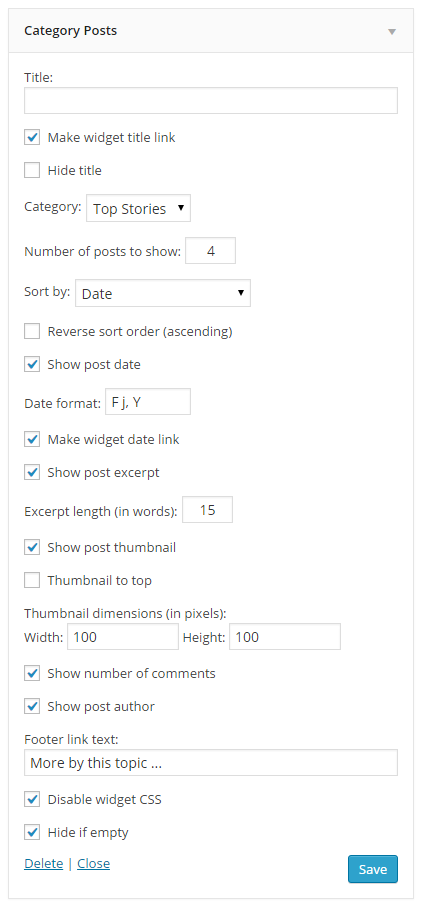
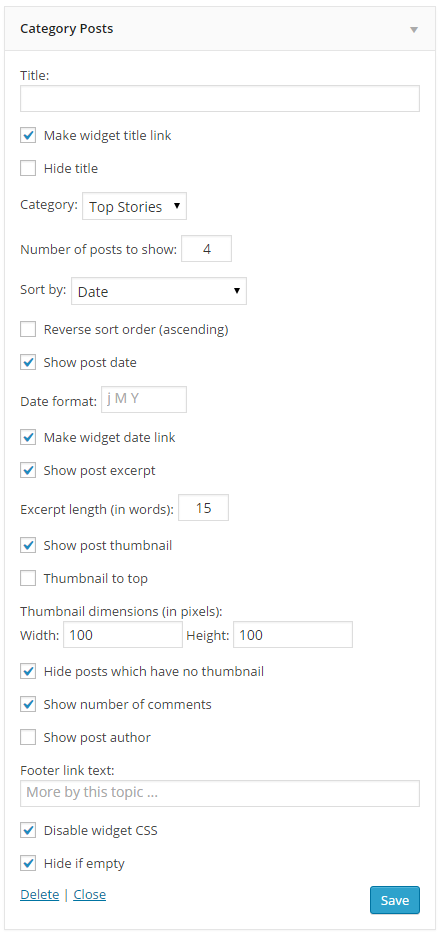
Added option to hide posts which have no thumbnail

Changed region(s): [[0.0309, 0.0, 0.6176, 0.9591], [0.8029, 0.9282, 0.9264, 0.9901], [0.9264, 0.0309, 0.9572, 0.0619]]

diff --git a/cat-posts.php b/cat-posts.php
@@ -79,12 +79,24 @@ class CategoryPosts extends WP_Widget {
 		}
 
 		// Get array of post info.
-		$cat_posts = new WP_Query(
-			"showposts=" . $instance["num"] . 
-			"&cat=" . $instance["cat"] .
-			"&orderby=" . $sort_by .
-			"&order=" . $sort_order
+		$args = array(
+			'showposts' => $instance["num"],
+			'cat' => $instance["cat"],
+			'orderby' => $sort_by,
+			'order' => $sort_order
 		);
+		
+		if( isset( $instance['hideNoThumb'] ) ) {
+			$args = array_merge( $args, array( 'meta_query' => array(
+					array(
+					 'key' => '_thumbnail_id',
+					 'compare' => 'EXISTS' )
+					)
+				)	
+			);
+		}
+		
+		$cat_posts = new WP_Query( $args );
 		
 		if ( !isset ( $instance["hide_if_empty"] ) || $cat_posts->have_posts() ) {
 			
@@ -240,6 +252,7 @@ class CategoryPosts extends WP_Widget {
 			'date_format'    => __( '' ),
 			'thumb'          => __( '' ),
 			'thumbTop'       => __( '' ),
+			'hideNoThumb'    => __( '' ),
 			'thumb_w'        => __( '' ),
 			'thumb_h'        => __( '' ),
 			'disable_css'    => __( '' ),
@@ -263,6 +276,7 @@ class CategoryPosts extends WP_Widget {
 		$date_format    = $instance['date_format'];
 		$thumb          = $instance['thumb'];
 		$thumbTop       = $instance['thumbTop'];
+		$hideNoThumb    = $instance['hideNoThumb'];
 		$thumb_w        = $instance['thumb_w'];
 		$thumb_h        = $instance['thumb_h'];
 		$disable_css    = $instance['disable_css'];
@@ -329,7 +343,7 @@ class CategoryPosts extends WP_Widget {
 			<label for="<?php echo $this->get_field_id("date_format"); ?>">
 				<?php _e( 'Date format:' ); ?>
 			</label>
-			<input class="text" id="<?php echo $this->get_field_id("date_format"); ?>" name="<?php echo $this->get_field_name("date_format"); ?>" type="text" value="<?php echo esc_attr($instance["date_format"]); ?>" size="8" />
+			<input class="text" placeholder="j M Y" id="<?php echo $this->get_field_id("date_format"); ?>" name="<?php echo $this->get_field_name("date_format"); ?>" type="text" value="<?php echo esc_attr($instance["date_format"]); ?>" size="8" />
 		</p>
 		<p>
 			<label for="<?php echo $this->get_field_id("date_link"); ?>">
@@ -374,6 +388,12 @@ class CategoryPosts extends WP_Widget {
 					</label>
 				</label>
 			</p>
+			<p>
+				<label for="<?php echo $this->get_field_id("hideNoThumb"); ?>">
+					<input type="checkbox" class="checkbox" id="<?php echo $this->get_field_id("hideNoThumb"); ?>" name="<?php echo $this->get_field_name("hideNoThumb"); ?>"<?php checked( (bool) $instance["hideNoThumb"], true ); ?> />
+					<?php _e( 'Hide posts which have no thumbnail' ); ?>
+				</label>
+			</p>			
 		<?php endif; ?>	
 		<p>
 			<label for="<?php echo $this->get_field_id("comment_num"); ?>">
@@ -390,7 +410,7 @@ class CategoryPosts extends WP_Widget {
 		<p>
 			<label for="<?php echo $this->get_field_id("footer_link"); ?>">
 				<?php _e( 'Footer link text' ); ?>:
-				<input class="widefat" id="<?php echo $this->get_field_id("footer_link"); ?>" name="<?php echo $this->get_field_name("footer_link"); ?>" type="text" value="<?php echo esc_attr($instance["footer_link"]); ?>" />
+				<input class="widefat" placeholder="More by this topic ..." id="<?php echo $this->get_field_id("footer_link"); ?>" name="<?php echo $this->get_field_name("footer_link"); ?>" type="text" value="<?php echo esc_attr($instance["footer_link"]); ?>" />
 			</label>
 		</p>
 		<p>

diff --git a/README.md b/README.md
@@ -22,7 +22,8 @@ Category Posts Widget is a light widget designed to do one thing and do it well:
 
 * Option to change ordering of posts.
 * Option to show post thumbnail & set dimension by width & height.
-* Option to put thumbnail on top
+* Option to put thumbnail on top.
+* Option to hide posts which have no thumbnail.
 * Option to disable widget CSS.
 * Set how many posts to show.
 * Option show post author.
@@ -70,6 +71,7 @@ Automatic installation is the easiest option as WordPress handles the file trans
 
 4.1.4
 
+* Added option to hide posts which have no thumbnail.
 * Added option to make the widget date link to the category page.
 * Addd option to link to the category page below posts list.
 * Added option show post author.
